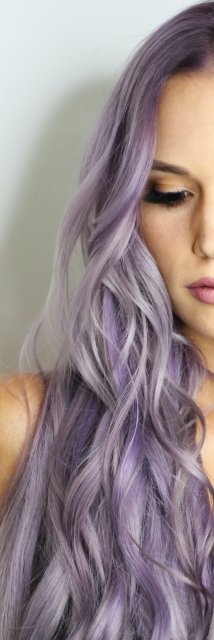
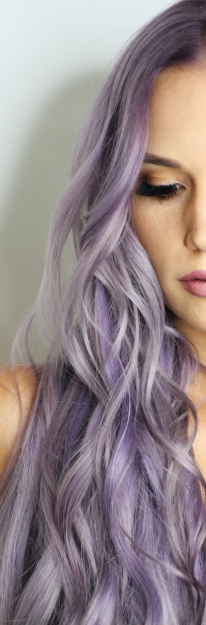
added sources for responsive images

diff --git a/code/index.html b/code/index.html
@@ -16,31 +16,20 @@
       <h2 class="header__buzz__word">be brave</h2>
       <h2 class="header__buzz__word">be bold</h2>
     </div>
-    <container
-      class="header__img header__img--small header__img--animation-up header__img--animation-short header__img--desktop ">
-      <img class="header__img" src="./images/hearthair1920px.jpg" alt="woman with long flowing on the floor">
-    </container>
-    <container
-      class="header__img header__img--medium header__img--animation-down header__img--animation-long header__img--mobile">
-      <img class="header__img" src="./images/leftMobile.png" alt="pruple haired woman">
-    </container>
-    <container
-      class="header__img header__img--xs header__img--animation-down header__img--animation-long header__img--desktop .header__img--tablet ">
-      <img class="header__img" src="./images/leftDesktop.png" alt="pruple haired woman">
-    </container>
-    <container
-      class="header__img header__img--medium header__img--animation-up header__img--animation-long header__img--mobile">
-      <img class="header__img" src="./images/rightMobile.png" alt="brown/green ombre haired woman">
-    </container>
-    <container
-      class="header__img header__img--xs header__img--animation-up header__img--animation-long  header__img--desktop .header__img--tablet">
-      <img class="header__img" src="./images/rightDesktop.png" alt="brown/green ombre haired woman">
-    </container>
-    <container
-      class="header__img header__img--small header__img--animation-down header__img--animation-short header__img--desktop">
-      <img class="header__img" src="./images/flowyhair1920px.jpg" alt="pink haired woman tosses head back">
-    </container>
-    </div>
+    <picture class="header__img header__img--30-0 header__img--animation-up header__img--animation-short">
+      <img class="header__img__src" src="./images/hearthair1920px.jpg" alt="woman with long flowing on the floor">
+    </picture>
+    <picture class="header__img header__img--20-50 header__img--animation-down header__img--animation-long">
+      <source media="(max-width: 1024px) and (max-device-width: 1024px)" srcset="./images/leftMobile.png ">
+      <img class="header__img" src="./images/leftDesktop.png" alt="Image description">
+    </picture>
+    <picture class="header__img header__img--20-50 header__img--animation-up header__img--animation-long">
+      <source media="(max-width: 1024px)" srcset="./images/rightMobile.png">
+      <img class="header__img" src="./images/rightDesktop.png" alt="Image description">
+    </picture>
+    <picture class="header__img header__img--30-0 header__img--animation-down header__img--animation-short">
+      <img class="header__img__src" src="./images/flowyhair1920px.jpg" alt="pink haired woman tosses head back">
+    </picture>
     <div class="header__logo">
       <h1 class="header__logo__text"></h1>
     </div>
@@ -82,7 +71,8 @@
           <label for="user">Username:</label>
           <input type="text" id="user" name="user" placeholder="You Username" required>
           <label for="pwd">Password:</label>
-          <input type="password" id="pwd" name="pwd" placeholder="You Password" minlength="4" maxlength="8" required><br>
+          <input type="password" id="pwd" name="pwd" placeholder="You Password" minlength="4" maxlength="8"
+            required><br>
           <label for="option">Where did you hear of us?</label>
           <select name="option">
             <option value="google">Google</option>
@@ -95,22 +85,20 @@
           <div><label for="privacy" class="signup__check"><input type="checkbox" id="privacy" name="privacy" required>
               <span class="signup__check__box"></span>
               I agree to the <a href="">privacy policy</a></label></div>
-          <div><label for="subscribe" class="signup__check"><input type="checkbox" id="subscribe" name="subscribe" required>
+          <div><label for="subscribe" class="signup__check"><input type="checkbox" id="subscribe" name="subscribe"
+                required>
               <span class="signup__check__box"></span>I would like to get weekly e-mail updates </label>
           </div>
           <input type="submit" value="Sign Up">
         </form>
         <p>Already a member? Login <a href="login" target="blank">here</a></p>
       </div>
-      <!-- Image next to (desktop) or on top of (mobile) form-->
-      <container class="signup__image  signup__image--desktop">
-        <img class="signup__image" src="./images/colors1920px.jpg" alt="clouds of colors">
-      </container>
-      <container class="signup__image  signup__image--tablet">
-        <img class="signup__image" src="./images/colors1240px.jpg"  alt="clouds of colors">
-      </container>
-      <container class="signup__image signup__image--landscape signup__image--mobile signup__image--first">
-        <img class="signup__image" src="./images/colors640px.jpg"  alt="clouds of colors">
+      <!-- Image with responsive sizes next to (desktop/tablet) or on top of (mobile) form-->
+      <container class="signup__image">
+        <img srcset="./images/colors1240px.jpg 1367w, ./images/colors1920px.jpg 2000w, 
+        ./images/colors640px.jpg 640w, ./images/colors350px 320w" sizes="(min-width: 1367px) 1367px, 2000px"
+          sizes="(max-width: 1366px) 640px" sizes="(max-width: 600px) 320px" src="./images/colors1920px.jpg"
+          alt="Clouds of colors">
       </container>
     </section>
 
@@ -172,7 +160,7 @@
       <div class="accordion__section">
         <h2>NEW PRODUCTS</h2>
         <div class="accordion__display"><span class="accordion__button">&plus;</span>
-          <container class="accordion__image"><img src="./images/red.png"  alt="red bottle"></container>
+          <container class="accordion__image"><img src="./images/red.png" alt="red bottle"></container>
           <p>Product 1</p>
         </div>
         <div class="accordion__expand">

diff --git a/code/style.css b/code/style.css
@@ -7,7 +7,8 @@ body {
   min-height: 100vh;
   position: relative;
   background-color: rgb(192, 250, 235);
-  cursor: url(./images/cursor.png) 1 1, pointer; /*custom cursor*/
+  cursor: url(./images/cursor.png) 1 1, pointer;
+  /*custom cursor*/
 }
 
 .header {
@@ -65,31 +66,14 @@ body {
   object-fit: cover;
 }
 
-/*img shows only on desktop */
-.header__img--desktop {
-  display: block;
-}
-
-/* only tablet */
-.header__img--tablet {
-  display: none;
-}
-
-/* img shows only on mobile */
-.header__img--mobile {
-  display: none;
-}
-
-.header__img--xs {
+/*resizes 20% on desktop and 50% on tablet/mobile */
+.header__img--20-50 {
   width: 20%;
 }
 
-.header__img--small {
+/*resizes 30% on desktop and none on tablet/mobile*/
+.header__img--30-0 {
   width: 30%;
-}
-
-.header__img--medium {
-  width: 50%;
 }
 
 .header__img--animation-down {
@@ -291,12 +275,12 @@ body {
   color: white;
   font-size: 18px;
   font-family: -apple-system, BlinkMacSystemFont, 'Segoe UI', Roboto, Oxygen, Ubuntu, Cantarell, 'Open Sans', 'Helvetica Neue', sans-serif;
-  
+
 }
 
 .signup a {
   text-decoration: none;
-  color:rgb(5, 85, 85);
+  color: rgb(5, 85, 85);
   font-weight: 500;
 }
 
@@ -337,13 +321,14 @@ body {
 }
 
 /* on hover and focus , the input get another bg-color */
-.signup__form input:focus, .signup__form input:hover  {
+.signup__form input:focus,
+.signup__form input:hover {
   background-color: rgb(158, 203, 211);
   outline: none;
 }
 
 ::placeholder {
-  color:rgba(7, 59, 63, 0.603);
+  color: rgba(7, 59, 63, 0.603);
 }
 
 .signup__form input[type=submit] {
@@ -363,7 +348,7 @@ body {
 }
 
 /* clear the default look of checkbox */
-.signup input[type=checkbox]{
+.signup input[type=checkbox] {
   position: absolute;
   opacity: 0;
   cursor: pointer;
@@ -393,7 +378,8 @@ body {
 }
 
 /*restyling radiobutton + checkbox*/
-.signup__check__radio, .signup__check__box {
+.signup__check__radio,
+.signup__check__box {
   background-color: rgb(171, 245, 235);
   height: 15px;
   width: 15px;
@@ -414,20 +400,20 @@ body {
 /*show nothing when the checkbox/radio is not clicked */
 .signup__check__radio:after,
 .signup__check__box:after {
-  content:"";
+  content: "";
   position: absolute;
   display: none;
 }
 
 /*when the checkbox/radio is checked the background color changes */
-.signup__check input:checked ~ .signup__check__radio,
-.signup__check input:checked ~ .signup__check__box  {
+.signup__check input:checked~.signup__check__radio,
+.signup__check input:checked~.signup__check__box {
   background-color: rgb(5, 85, 85);
 }
 
 /* when the checkbox/radio is checked, show an marker in it */
-.signup__check input:checked ~ .signup__check__radio:after,
-.signup__check input:checked ~ .signup__check__box:after {
+.signup__check input:checked~.signup__check__radio:after,
+.signup__check input:checked~.signup__check__box:after {
   display: block;
 }
 
@@ -443,12 +429,12 @@ body {
 
 /*styling of marker in checkbox */
 .signup__check .signup__check__box:after {
-  border-right:solid rgb(248, 248, 248)3px;
+  border-right: solid rgb(248, 248, 248)3px;
   border-bottom: solid rgb(253, 253, 253)3px;
   width: 5px;
   height: 10px;
   left: 4px;
-  transform:rotate(45deg);
+  transform: rotate(45deg);
 }
 
 .signup__image {
@@ -469,21 +455,6 @@ body {
 
 select {
   margin-bottom: 20px;
-}
-
-/*shows image on desktop mode */
-.signup__image--desktop {
-  display: block;
-}
-
-/* only tablet */
-.signup__image--tablet {
-  display: none;
-}
-
-/*only mobile*/
-.signup__image--mobile {
-  display: none;
 }
 
 /* section for all accordions */
@@ -514,7 +485,8 @@ select {
 }
 
 /* the accordion styling */
-.accordion__display, .accordion__expand{
+.accordion__display,
+.accordion__expand {
   border: solid rgb(255, 255, 255) 0.5px;
   background-color: rgba(255, 255, 255, 0);
   border-radius: 10px;
@@ -537,7 +509,7 @@ select {
 
 /* when accordion__display is set to .active with js, the nearest sibling div will get these properties 
 (in this case accordion__expand) */
-.active+ div{
+.active+div {
   height: 200px;
   margin: 10px;
   overflow-y: auto;
@@ -656,37 +628,17 @@ select {
 }
 
 /*breakpoint at the largest tablets*/
-@media screen and (device-width: 1366px),
-(max-width:1366px) {
+@media screen and (device-width: 1024px),
+(max-width:1024px) {
 
-  .header__img {
+  .header__img--20-50 {
     width: 50%;
+    min-width: 50%;
   }
 
-  .header__img--tablet {
-    display: block;
-  }
-
-  /* reusing 2 pictures, so they should not get display:none. targeting those that should */
-  .header__img--desktop:nth-of-type(1),
-  .header__img--desktop:nth-of-type(6) {
+  .header__img--30-0 {
     display: none;
-  }
-
-  .header__img--mobile {
-    display: none;
-  }
-
-  .signup__image--tablet {
-    display: block;
-  }
-
-  .signup__image--desktop {
-    display: none;
-  }
-
-  .signup__image--mobile {
-    display: none;
+    width: 0;
   }
 
   .accordion {
@@ -713,14 +665,6 @@ select {
 
   .header__buzzwords h2 {
     font-size: 20px;
-  }
-
-  .header__img--mobile {
-    display: block;
-  }
-
-  .header__img--desktop {
-    display: none;
   }
 
   .nav__button {
@@ -758,22 +702,10 @@ select {
   }
 
   /* makes the signup form image rectangular */
-  .signup__image--landscape {
+  .signup__image {
     width: 100%;
     height: 100px;
-  }
-
-  /*puts the form image on top instead of bottom of the form */
-  .signup__image--first {
     order: 1;
-  }
-
-  .signup__image--mobile {
-    display: block;
-  }
-
-  .signup__image--desktop {
-    display: none;
   }
 
   .signup__inner {
